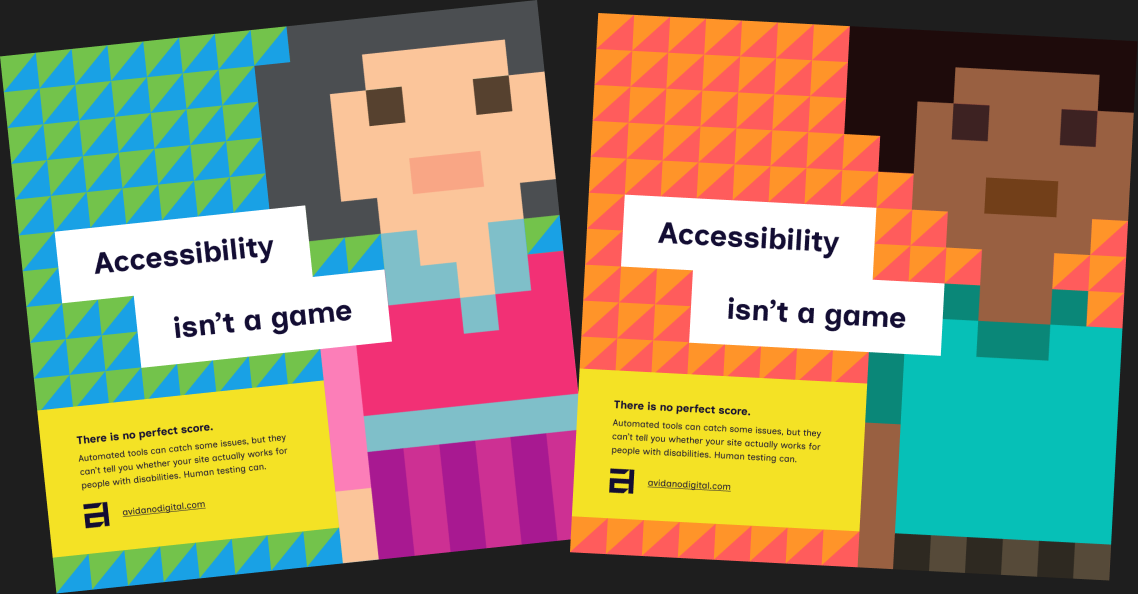
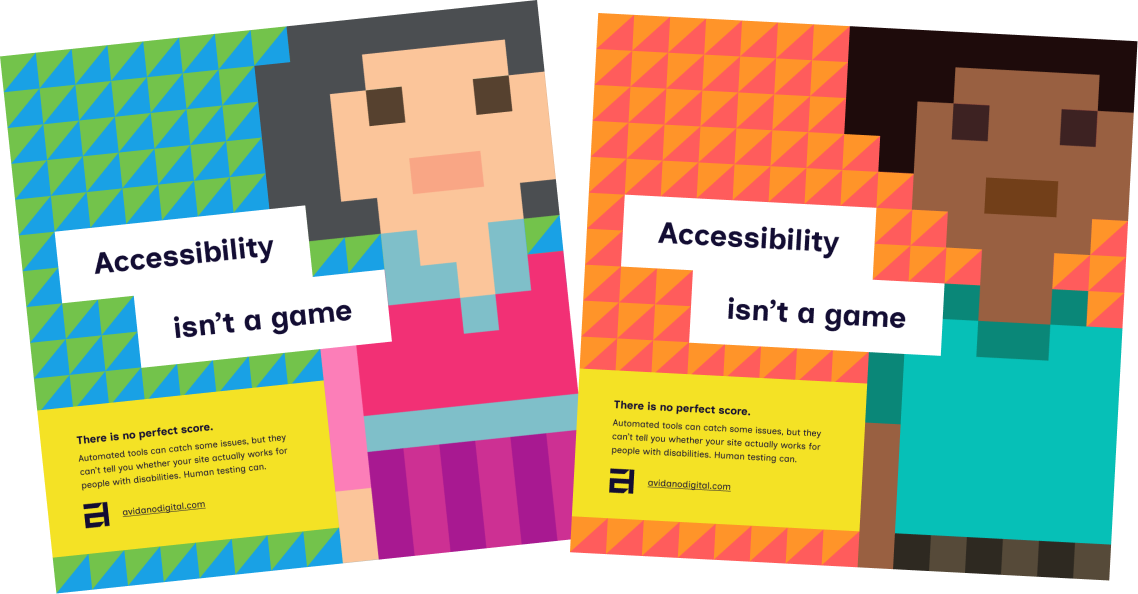
Preserve transparency in tilted social graphics

Changed region(s): [[0.0, 0.0, 1.0, 1.0]]

diff --git a/docs/DRAWING-BOARD.md b/docs/DRAWING-BOARD.md
@@ -49,7 +49,7 @@ External article references must use the existing `LinkOpenNew.astro` component 
 
 The [Drawing Board page in Portfolio Figma](https://www.figma.com/design/RELqPD0MlE9xfVLxRMGJTR/Portfolio?node-id=1235-1890) holds the current export frames. Website asset filenames match those frame names: `drawing-board-…` for the four article thumbnails and `social-graphics-…` for the four advocacy figures. The eight local assets were renamed without changing their bytes, and their MDX references were updated. Keep these names aligned; do not reintroduce the former `desk-…` prefix. The Polypane frame is named `contrast-themes-polypane` (the earlier Figma `polypayne` typo was corrected). The supplied 1620 × 1620 flag artwork is retained at full resolution, rather than replaced by the frame’s smaller default export.
 
-The social graphics article’s feature image is `src/images/avidano-digital/drawing-board-avidano-digital-social-graphics.png`, exported at its original 1800 × 900 size from [the Portfolio Figma frame `drawing-board-avidano-digital-social-graphics`](https://www.figma.com/design/RELqPD0MlE9xfVLxRMGJTR/Portfolio?node-id=1224-1367). Its article body uses three series figures, exported unchanged from Figma on September 20, 2026: `src/images/avidano-digital/social-graphics-bluesky-stop-saying.png` (1200 × 380, [node `1229:777`](https://www.figma.com/design/RELqPD0MlE9xfVLxRMGJTR/Portfolio?node-id=1229-777)), `src/images/avidano-digital/social-graphics-linkedin-pride.png` (1124 × 720, [node `1230:778`](https://www.figma.com/design/RELqPD0MlE9xfVLxRMGJTR/Portfolio?node-id=1230-778)), and `src/images/avidano-digital/social-graphics-accessibility-isnt-a-game.png` (1138 × 594, [node `1230:791`](https://www.figma.com/design/RELqPD0MlE9xfVLxRMGJTR/Portfolio?node-id=1230-791)). The first follows the paragraph about keeping disabled people central to accessibility. The “Nothing about us without us” sentence and Pride explanation sit between the first and second figures. The third follows the explanation of “Accessibility isn’t a game.” Each series follows its matching text. All use regular medium-width figures, descriptive captions and alt text, full image proportions, and no lightbox. These replace the combined assortment. The original advocacy collage remains available for other portfolio content. The Confluence article now uses these figures in the same positions as the website.
+The social graphics article’s feature image is `src/images/avidano-digital/drawing-board-avidano-digital-social-graphics.png`, exported at its original 1800 × 900 size from [the Portfolio Figma frame `drawing-board-avidano-digital-social-graphics`](https://www.figma.com/design/RELqPD0MlE9xfVLxRMGJTR/Portfolio?node-id=1224-1367). Its article body uses three series figures, exported unchanged from Figma on September 20, 2026: `src/images/avidano-digital/social-graphics-bluesky-stop-saying.png` (1200 × 380, [node `1229:777`](https://www.figma.com/design/RELqPD0MlE9xfVLxRMGJTR/Portfolio?node-id=1229-777)), `src/images/avidano-digital/social-graphics-linkedin-pride.png` (1124 × 720, [node `1230:778`](https://www.figma.com/design/RELqPD0MlE9xfVLxRMGJTR/Portfolio?node-id=1230-778)), and `src/images/avidano-digital/social-graphics-accessibility-isnt-a-game.png` (1138 × 594, [node `1230:791`](https://www.figma.com/design/RELqPD0MlE9xfVLxRMGJTR/Portfolio?node-id=1230-791)). The first follows the paragraph about keeping disabled people central to accessibility. The “Nothing about us without us” sentence and Pride explanation sit between the first and second figures. The third follows the explanation of “Accessibility isn’t a game.” Each series follows its matching text. All use regular medium-width figures, descriptive captions and alt text, full image proportions, and no lightbox. These replace the combined assortment. The original advocacy collage remains available for other portfolio content. The Confluence article now uses these figures in the same positions as the website. The three tilted figures were re-exported directly through Figma’s PNG export on September 20, 2026, preserving transparent space around the artwork. Keep their alpha channels intact for light and dark site themes; do not substitute screenshots with an opaque canvas background. The matching Confluence attachments use the same transparent PNG bytes.
 
 The fourth social-graphics figure (Figma frame `social-graphics-flagged-for-removal`, node `1230:804`), `src/images/avidano-digital/social-graphics-flagged-for-removal.png`, is copied unchanged from the user’s supplied 1620 × 1620 PNG on September 20, 2026. It appears near the end, directly after the paragraph explaining the flag composition and before “Result.” The caption connects the full graphic to the article’s existing thumbnail. It uses the same regular medium-width figure without a lightbox. The artwork itself credits the word list to The New York Times, March 7, 2025; the new article paragraph describes the design and its message without adding new claims about government policy.
 
@@ -147,7 +147,7 @@ There are no TLDR blocks, separate preview-description sections, “Article” w
 
 All eleven article figure attachments were downloaded from Confluence and verified byte-for-byte against the website source assets, including the new monorepo graphic and the ESR screenshots copied with the approved revision. Preserve their original proportions and resolution. Superseded attachments are not used in the current pages; they remain available for page history.
 
-The read-back comparison passed for all article-body paragraphs, heading levels, figure order, captions, useful-link text and destinations, and footer links. Verified page versions: ESR 9, contrast themes 10, monorepo 9, CCF foundation 4, social graphics 12, and parent page 3. The updated ESR and monorepo copies were also compared with their generated local HTML. ESR’s Confluence metadata retains the approved “Tag: Accessibility” label; the website displays its topic badge. Image alt-text punctuation also differs: Confluence drops some descriptions containing curly quotes, double quotes, or a colon. Its saved alt text uses straight apostrophes and, for the Pride figure, a comma in place of the colon. All description wording is preserved; the website retains the approved punctuation. Both the connector and native editor were checked. Do not claim literal character-for-character parity for those eight image descriptions.
+The read-back comparison passed for all article-body paragraphs, heading levels, figure order, captions, useful-link text and destinations, and footer links. Verified page versions: ESR 9, contrast themes 10, monorepo 9, CCF foundation 4, social graphics 13, and parent page 3. The updated ESR and monorepo copies were also compared with their generated local HTML. ESR’s Confluence metadata retains the approved “Tag: Accessibility” label; the website displays its topic badge. Image alt-text punctuation also differs: Confluence drops some descriptions containing curly quotes, double quotes, or a colon. Its saved alt text uses straight apostrophes and, for the Pride figure, a comma in place of the colon. All description wording is preserved; the website retains the approved punctuation. Both the connector and native editor were checked. Do not claim literal character-for-character parity for those eight image descriptions.
 
 Changes in Confluence do not automatically update the website. For each approved revision, read both current versions, establish the approved source, and update its counterpart in the same task. Compare the saved text in order, links, captions, image descriptions, and image bytes after saving. Keep Rovo child summaries as separate reference material; they are not approved replacement articles. Do not publish a website draft merely because its working copy exists in Confluence.
 
